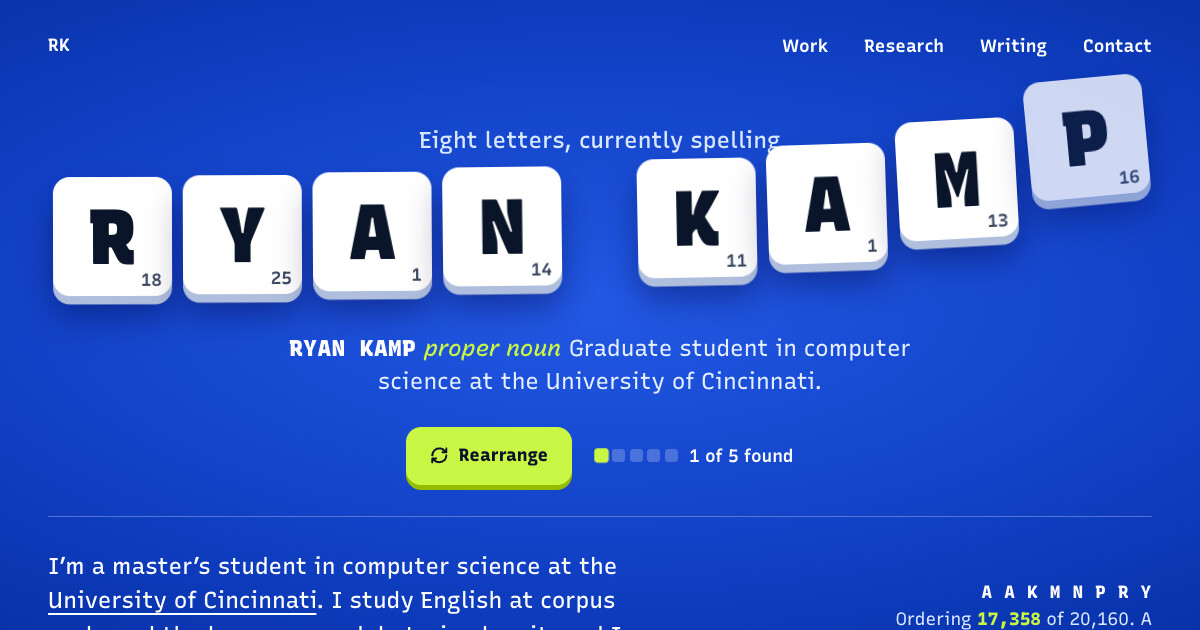
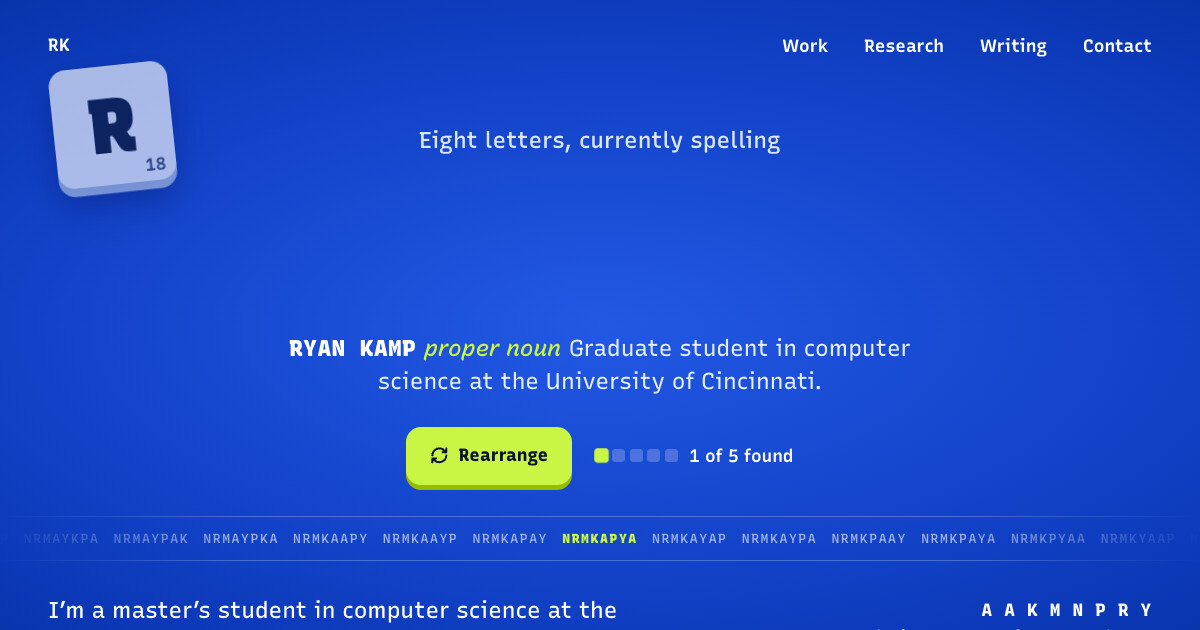
Add the shelf: each ordering shown between its alphabetical neighbours

diff --git a/main.js b/main.js
@@ -44,6 +44,29 @@ function rankOf(chars) {
   return rank;
 }
 
+// The inverse: the ordering that sits at a given rank.
+function unrank(rank, chars) {
+  const counts = {};
+  chars.forEach((c) => { counts[c] = (counts[c] || 0) + 1; });
+  const alphabet = Object.keys(counts).sort();
+  let r = rank - 1;
+  let out = '';
+  for (let n = chars.length; n > 0; n -= 1) {
+    for (const k of alphabet) {
+      if (!counts[k]) continue;
+      counts[k] -= 1;
+      const block = orderings(counts, n - 1);
+      if (r < block) {
+        out += k;
+        break;
+      }
+      r -= block;
+      counts[k] += 1;
+    }
+  }
+  return out;
+}
+
 /**
  * A row of letter tiles that can be rearranged, by code or by hand,
  * into any of the phrases it knows. Every phrase must use the same letters.
@@ -311,6 +334,23 @@ function hero() {
   } catch { /* storage unavailable: start fresh */ }
   let touched = false;
 
+  // The shelf: this ordering between its neighbours in the alphabetical
+  // list of every ordering. It spins like an odometer as the rank changes.
+  const shelf = document.getElementById('shelf');
+  const bag = letters(NAME);
+  const total = rankOf([...bag].sort().reverse());
+  const cells = Array.from({ length: 27 }, (_, i) => {
+    const cell = document.createElement('span');
+    if (i === 13) cell.className = 'is-here';
+    shelf.append(cell);
+    return cell;
+  });
+  const paintShelf = (rank) => {
+    cells.forEach((cell, i) => {
+      cell.textContent = unrank((((rank - 1 + i - 13) % total) + total) % total + 1, bag);
+    });
+  };
+
   // Count the rank readout up or down to its new value.
   let shown = 0;
   let ticking = 0;
@@ -322,6 +362,7 @@ function hero() {
       const k = reduceMotion.matches ? 1 : Math.min((now - t0) / 650, 1);
       shown = Math.round(from + (to - from) * (1 - (1 - k) ** 4));
       rankEl.textContent = shown.toLocaleString('en-US');
+      paintShelf(shown);
       if (k < 1) ticking = requestAnimationFrame(step);
     };
     ticking = requestAnimationFrame(step);

diff --git a/styles.css b/styles.css
@@ -208,7 +208,7 @@ img, svg, canvas { display: block; max-width: 100%; }
   isolation: isolate;
   min-height: 100svh;
   display: grid;
-  grid-template-rows: auto 1fr auto;
+  grid-template-rows: auto 1fr auto auto;
   color: var(--white);
   background:
     radial-gradient(110% 75% at 50% 42%, var(--blue-hi) 0%, var(--blue) 48%, var(--blue-lo) 100%),
@@ -296,13 +296,35 @@ img, svg, canvas { display: block; max-width: 100%; }
 .pips i.is-on { background: var(--lime); scale: 1.12; }
 .found a { font-weight: 800; color: var(--lime); }
 
+.shelf {
+  display: flex;
+  justify-content: center;
+  gap: 1.8ch;
+  min-height: 2.7rem;
+  padding-block: 0.75rem;
+  border-block: 1px solid oklch(1 0 0 / 0.24);
+  overflow: hidden;
+  white-space: nowrap;
+  user-select: none;
+  -webkit-user-select: none;
+  --mono: 1;
+  font-size: 0.82rem;
+  font-weight: 500;
+  line-height: 1.2rem;
+  letter-spacing: 0.12em;
+  color: oklch(1 0 0 / 0.6);
+  -webkit-mask-image: linear-gradient(90deg, transparent, #000 20%, #000 80%, transparent);
+  mask-image: linear-gradient(90deg, transparent, #000 20%, #000 80%, transparent);
+}
+.shelf span { flex: none; }
+.shelf .is-here { color: var(--lime); font-weight: 850; }
+
 .hero__foot {
   display: grid;
   grid-template-columns: minmax(0, 1.5fr) minmax(0, 1fr);
   gap: 1.5rem clamp(2rem, 6vw, 6rem);
   align-items: end;
   padding-block: clamp(1.25rem, 3vw, 2rem) clamp(1.5rem, 4vw, 2.5rem);
-  border-top: 1px solid oklch(1 0 0 / 0.28);
 }
 .hero__intro { max-width: 54ch; font-size: var(--step-1); line-height: 1.5; font-weight: 450; }
 .hero__intro a { text-decoration-thickness: 2px; text-underline-offset: 0.2em; }

diff --git a/index.html b/index.html
@@ -49,9 +49,11 @@
       </div>
     </div>
 
+    <div class="shelf" id="shelf" aria-hidden="true"></div>
+
     <div class="hero__foot wrap">
       <p class="hero__intro">I&rsquo;m a master&rsquo;s student in computer science at the <a href="https://www.uc.edu/">University of Cincinnati</a>. I study English at corpus scale and the language models trained on it, and I build the tools that kind of work runs on.</p>
-      <p class="hero__inventory"><b>A A K M N P R Y</b><br>Ordering <b class="rank" id="rank">17,359</b> of 20,160. A handful of them are English. Drag the tiles<span class="type-hint">, or just type</span>.</p>
+      <p class="hero__inventory"><b>A A K M N P R Y</b><br>Ordering <b class="rank" id="rank">17,359</b> of 20,160, shown above between its alphabetical neighbours. A handful are English. Drag the tiles<span class="type-hint">, or just type</span>.</p>
     </div>
   </header>
 
